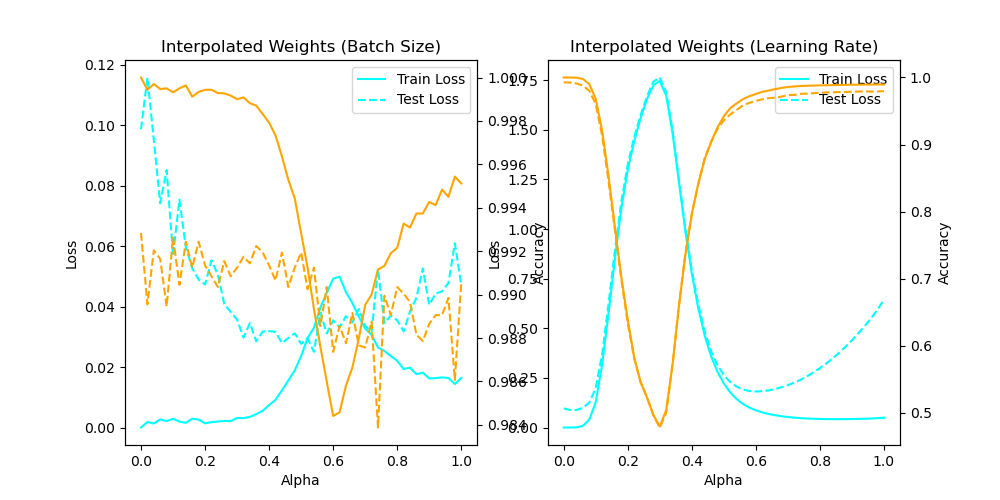
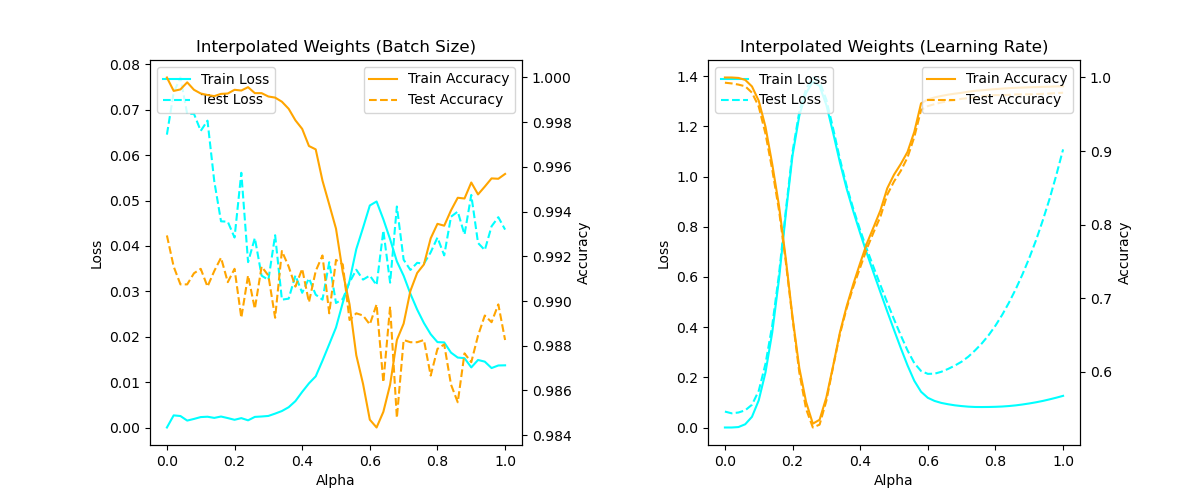
HW1 done

diff --git a/HW1/3-flatness_p1.py b/HW1/3-flatness_p1.py
@@ -151,18 +151,20 @@ if __name__=="__main__":
         new_test_accuracies_lr.append(new_test_accuracy)
     
     # Plot the results
-    figure = plt.figure(figsize=(10, 5))
+    figure = plt.figure(figsize=(12, 5))
+    figure.subplots_adjust(wspace=0.5)
     ax1 = figure.add_subplot(1, 2, 1)
     ax1.plot(alphas, new_train_losses_bs, label='Train Loss', color='cyan')
     ax1.plot(alphas, new_test_losses_bs, label='Test Loss', color='cyan', linestyle='--')
     ax1.set_xlabel('Alpha')
     ax1.set_ylabel('Loss')
     ax1.set_title('Interpolated Weights (Batch Size)')
-    ax1.legend()
+    ax1.legend(loc='upper left')
     ax2 = ax1.twinx()
     ax2.plot(alphas, new_train_accuracies_bs, label='Train Accuracy', color='orange')
     ax2.plot(alphas, new_test_accuracies_bs, label='Test Accuracy', color='orange', linestyle='--')
     ax2.set_ylabel('Accuracy')
+    ax2.legend(loc='upper right')
     
 
     ax3 = figure.add_subplot(1, 2, 2)
@@ -171,10 +173,11 @@ if __name__=="__main__":
     ax3.set_xlabel('Alpha')
     ax3.set_ylabel('Loss')
     ax3.set_title('Interpolated Weights (Learning Rate)')
-    ax3.legend()
+    ax3.legend(loc='upper left')
     ax4 = ax3.twinx()
     ax4.plot(alphas, new_train_accuracies_lr, label='Train Accuracy', color='orange')
     ax4.plot(alphas, new_test_accuracies_lr, label='Test Accuracy', color='orange', linestyle='--')
     ax4.set_ylabel('Accuracy')
+    ax4.legend(loc='upper right')
 
     figure.savefig('./figs/3-flatness_p1.png')

diff --git a/HW1/3-flatness_p2.py b/HW1/3-flatness_p2.py
@@ -145,7 +145,7 @@ if __name__=="__main__":
     ax1.plot(batch_sizes, test_losses, label='Test', color='green', linestyle='dashed')
     ax1.set_xlabel('Batch Size')
     ax1.set_ylabel('Loss')
-    ax1.legend(loc='upper left', bbox_to_anchor=(1, 1))
+    ax1.legend(loc='upper left')
     ax2 = ax1.twinx()
     ax2.plot(batch_sizes, sensitivities, label='Sensitivity', color='red')
     ax2.set_ylabel('Sensitivity')
@@ -156,7 +156,7 @@ if __name__=="__main__":
     ax3.plot(batch_sizes, test_accuracies, label='Test', color='blue', linestyle='dashed')
     ax3.set_xlabel('Batch Size')
     ax3.set_ylabel('Accuracy')
-    ax3.legend(loc='upper left', bbox_to_anchor=(1, 1))
+    ax3.legend(loc='upper left')
     ax4 = ax3.twinx()
     ax4.plot(batch_sizes, sensitivities, label='Sensitivity', color='red')
     ax4.set_ylabel('Sensitivity')
